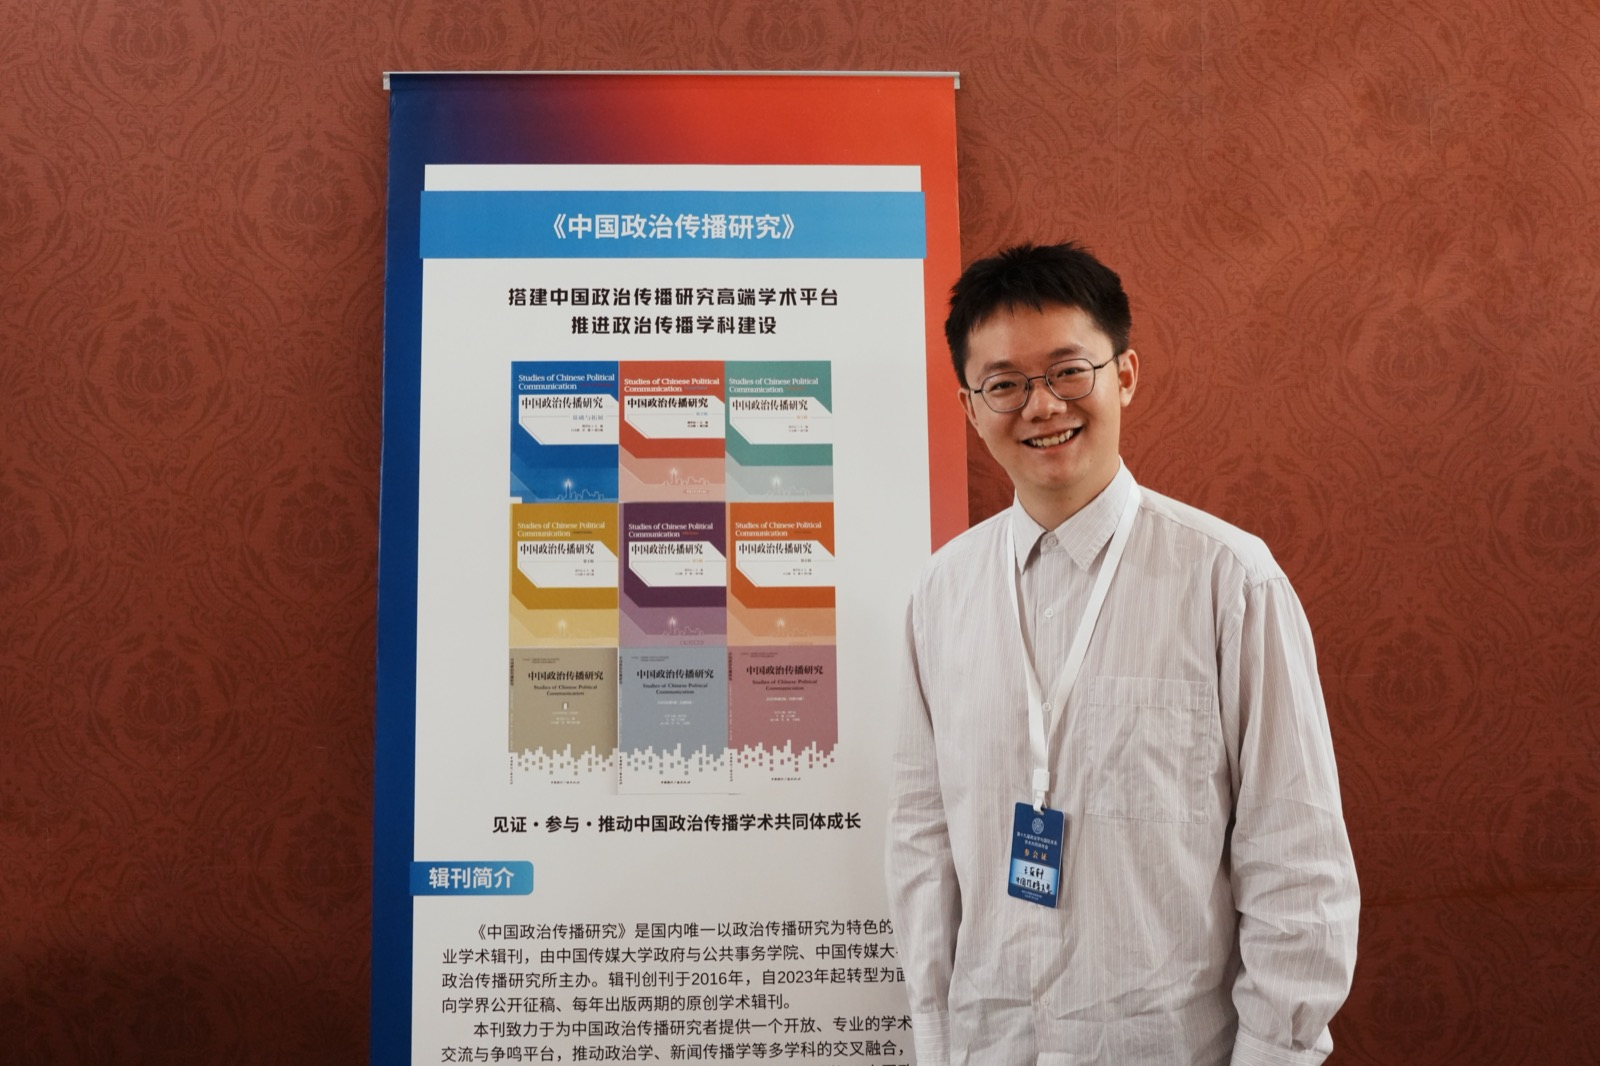
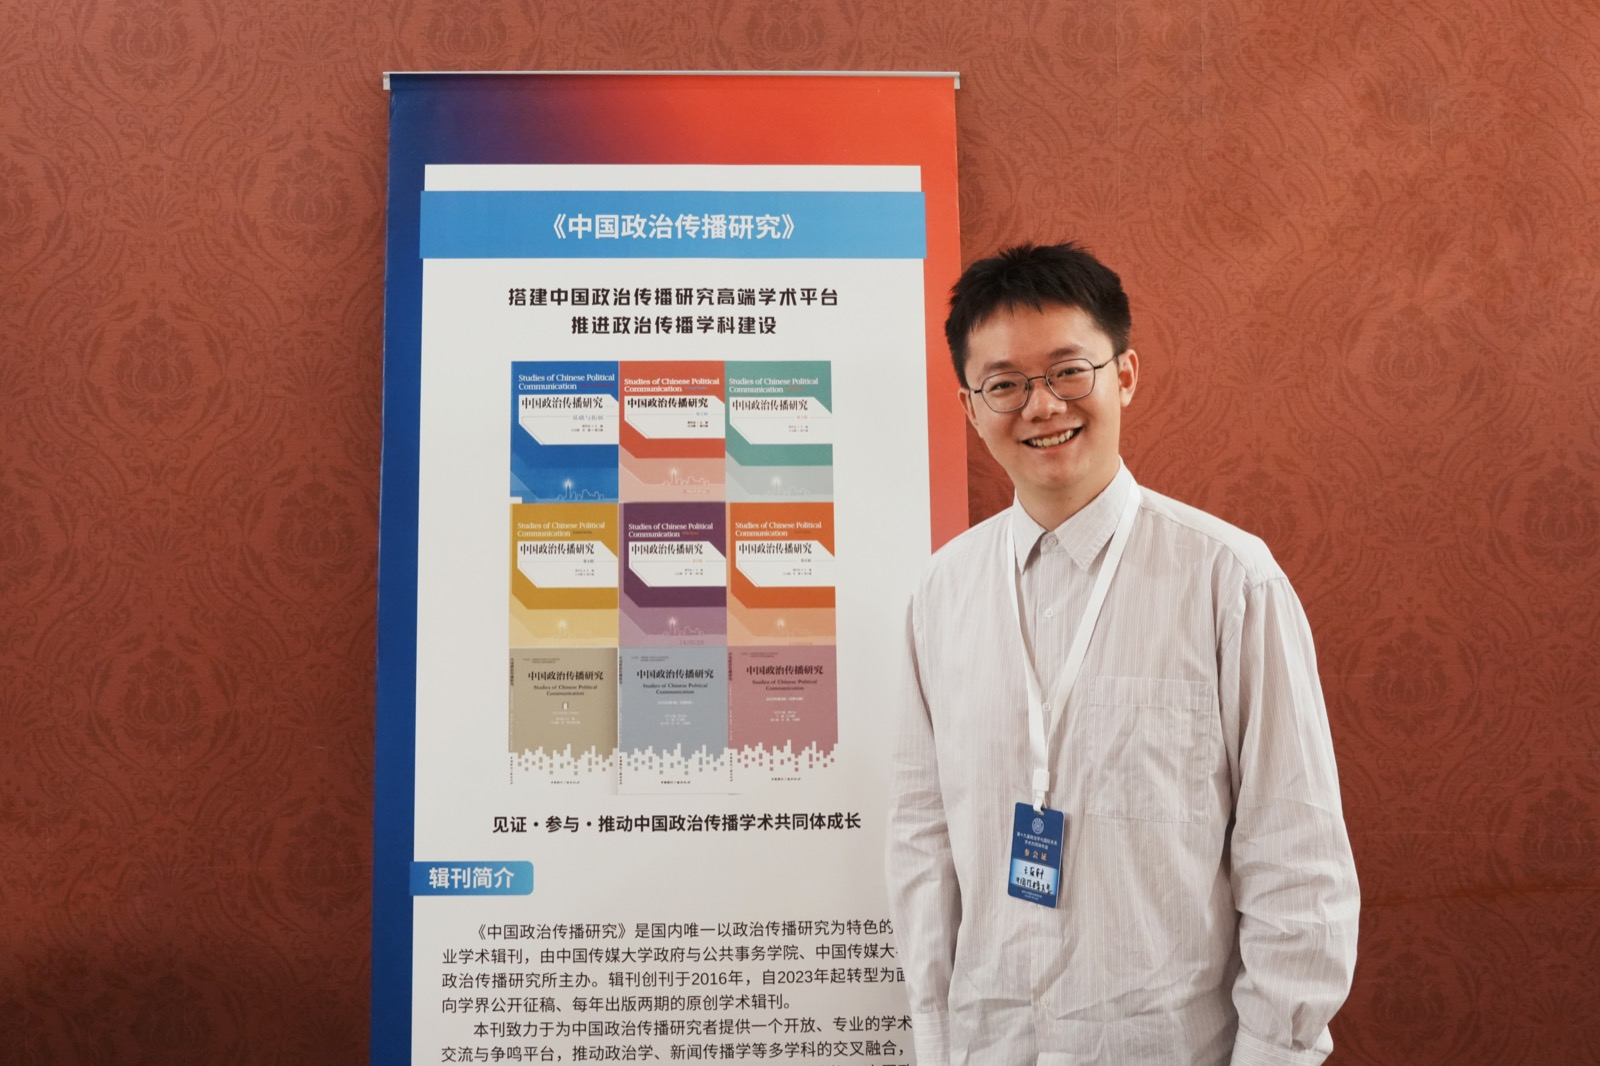
更新发言现场照片(调亮)，图库整体居中对齐

diff --git a/assets/css/main.scss b/assets/css/main.scss
@@ -142,8 +142,9 @@ h1, h2, h3, h4, h5, h6 {
 .event-gallery {
   display: flex;
   gap: 16px;
-  margin: 1.5em 0;
+  margin: 1.5em auto;
   align-items: stretch;
+  justify-content: center;
 }
 .event-gallery__poster {
   flex: 0 0 auto;
@@ -177,6 +178,7 @@ h1, h2, h3, h4, h5, h6 {
 @media (max-width: 47.99em) {
   .event-gallery {
     flex-direction: column;
+    align-items: center;
   }
   .event-gallery__poster img {
     height: auto;
